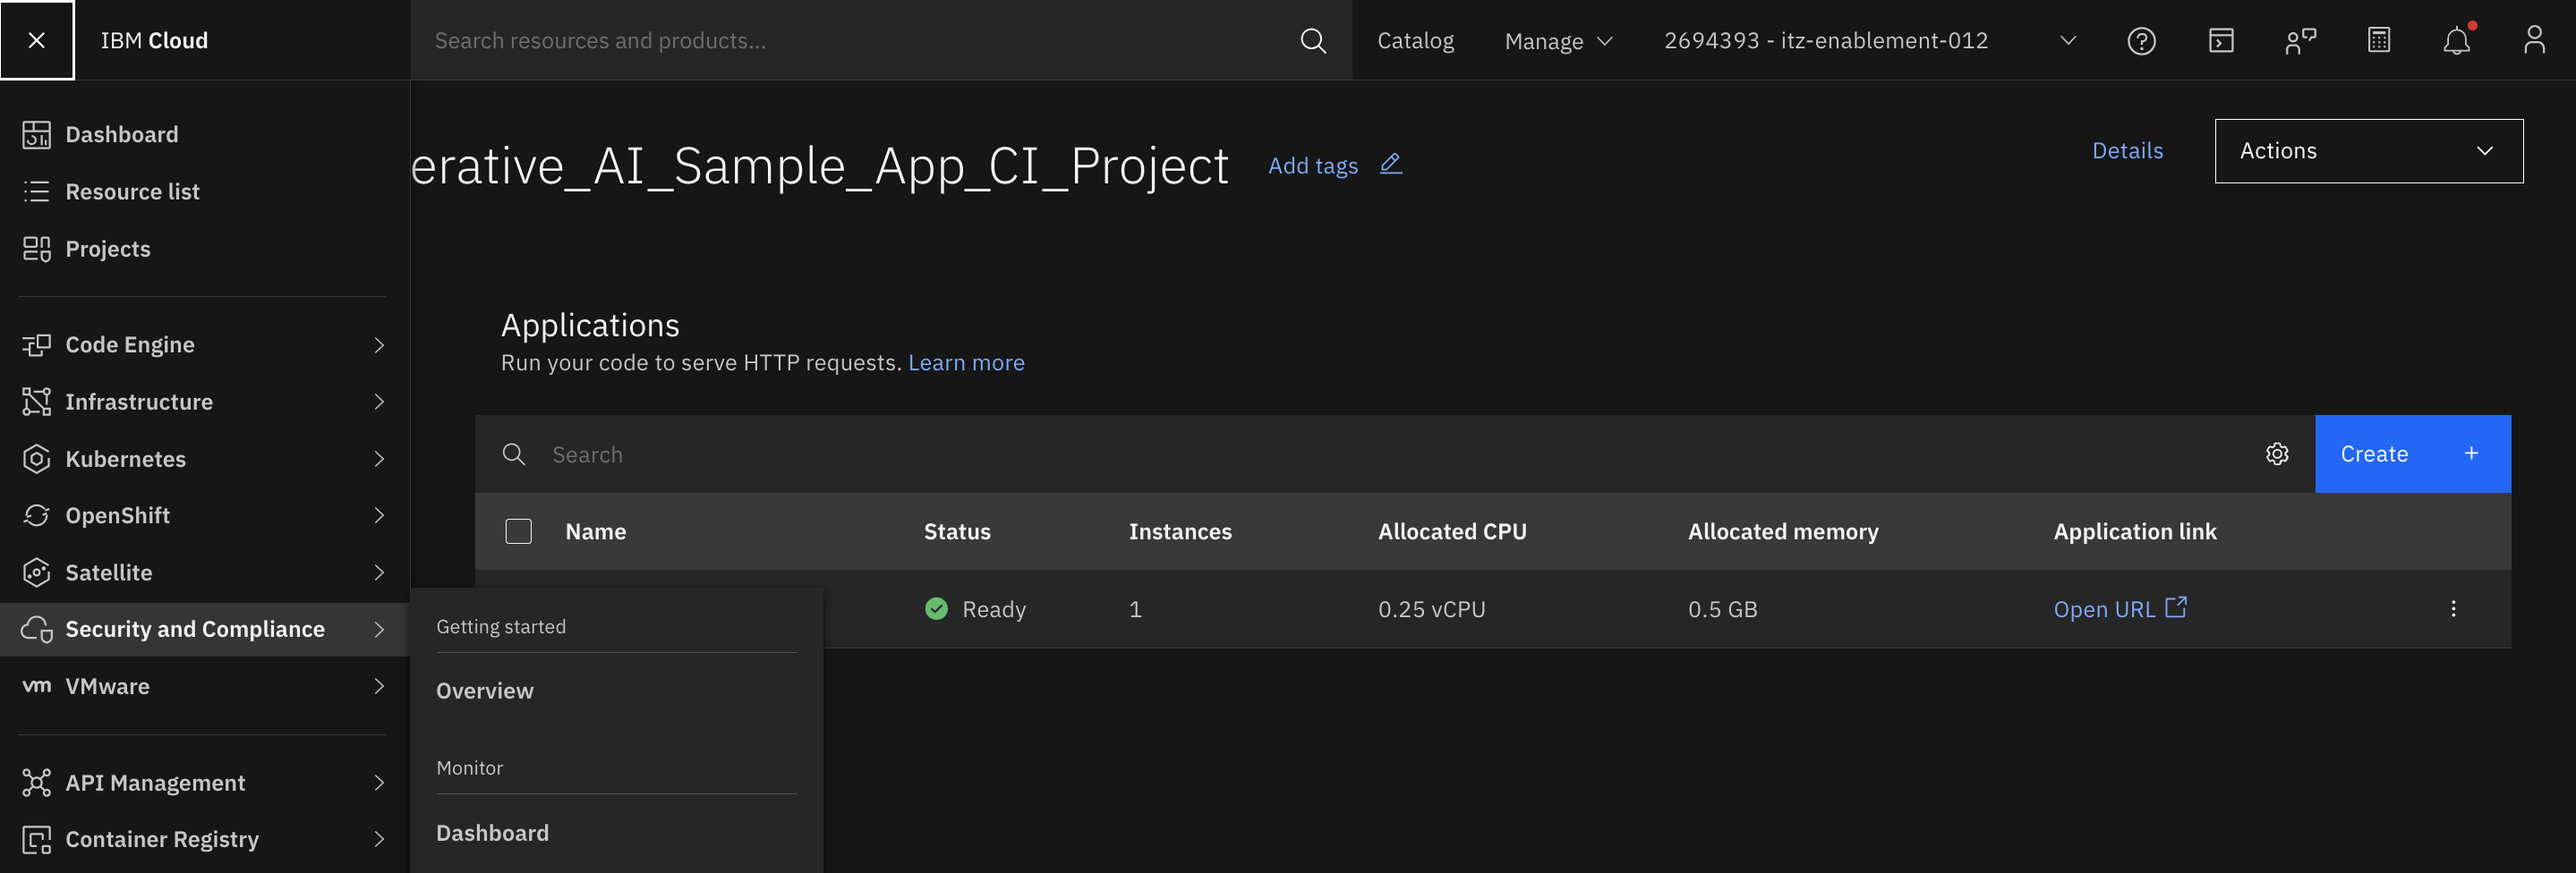
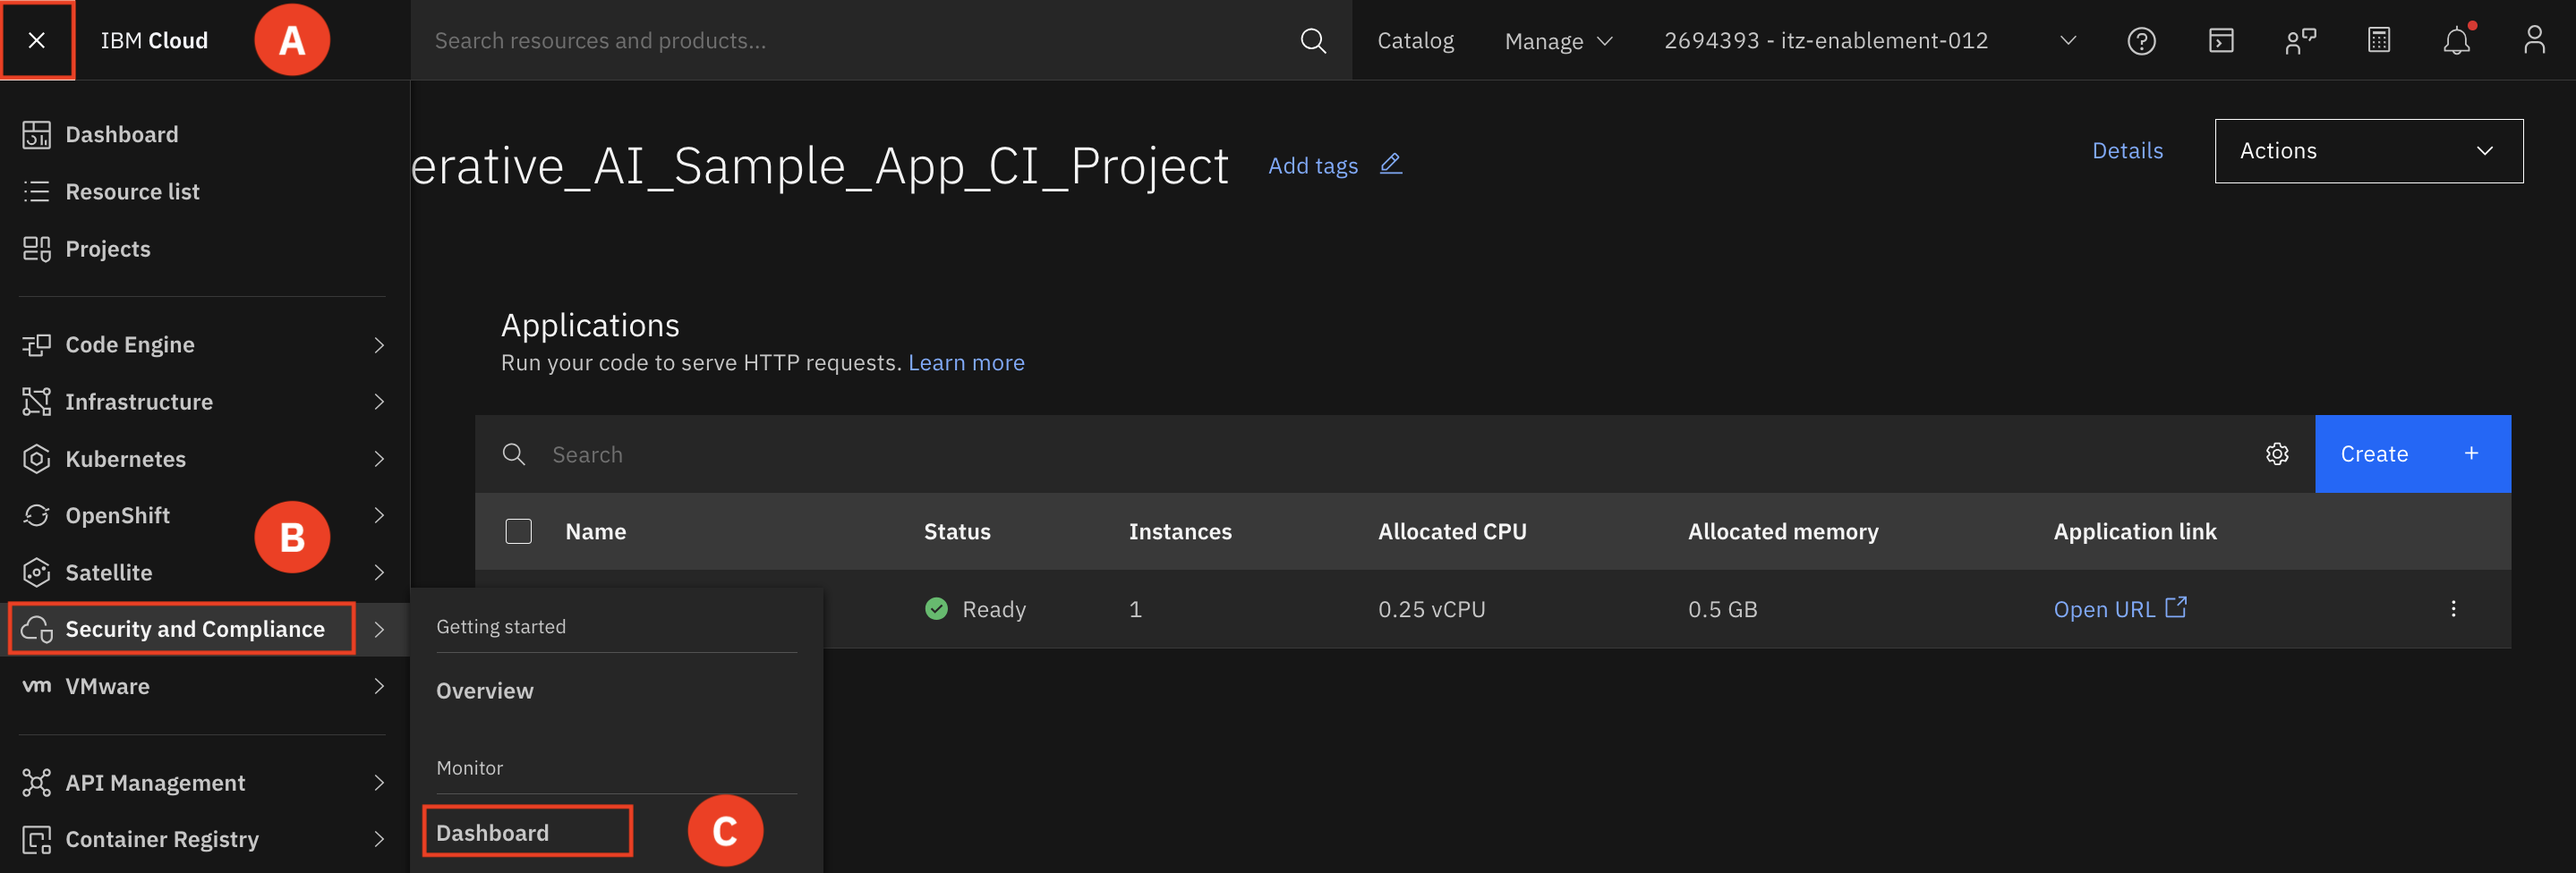
update screenshots

diff --git a/docs/lab/1_7-scc.md b/docs/lab/1_7-scc.md
@@ -4,7 +4,7 @@ The Security and Compliance Center (SCC) enforces policies through code, deploys
 
 1. Expand the **Navigation menu (A)** and then select **Security and Compliance (B) > Dashboard (C)**
 
-![alt text](../images/1.7.1.png)
+![alt text](../images/1.7.1-n.png)
 
 ## SCC Scans
 
@@ -17,7 +17,7 @@ This streamlined approach to managing and analyzing your scan data enables you t
 
 [comment]: <> (1.7.1-a)
 
-![alt text](../images/1.7.1-a.png)
+![alt text](../images/1.7.1-a-n.png)
 
 ### Controls and Control libraries 
 **Controls** <br>
